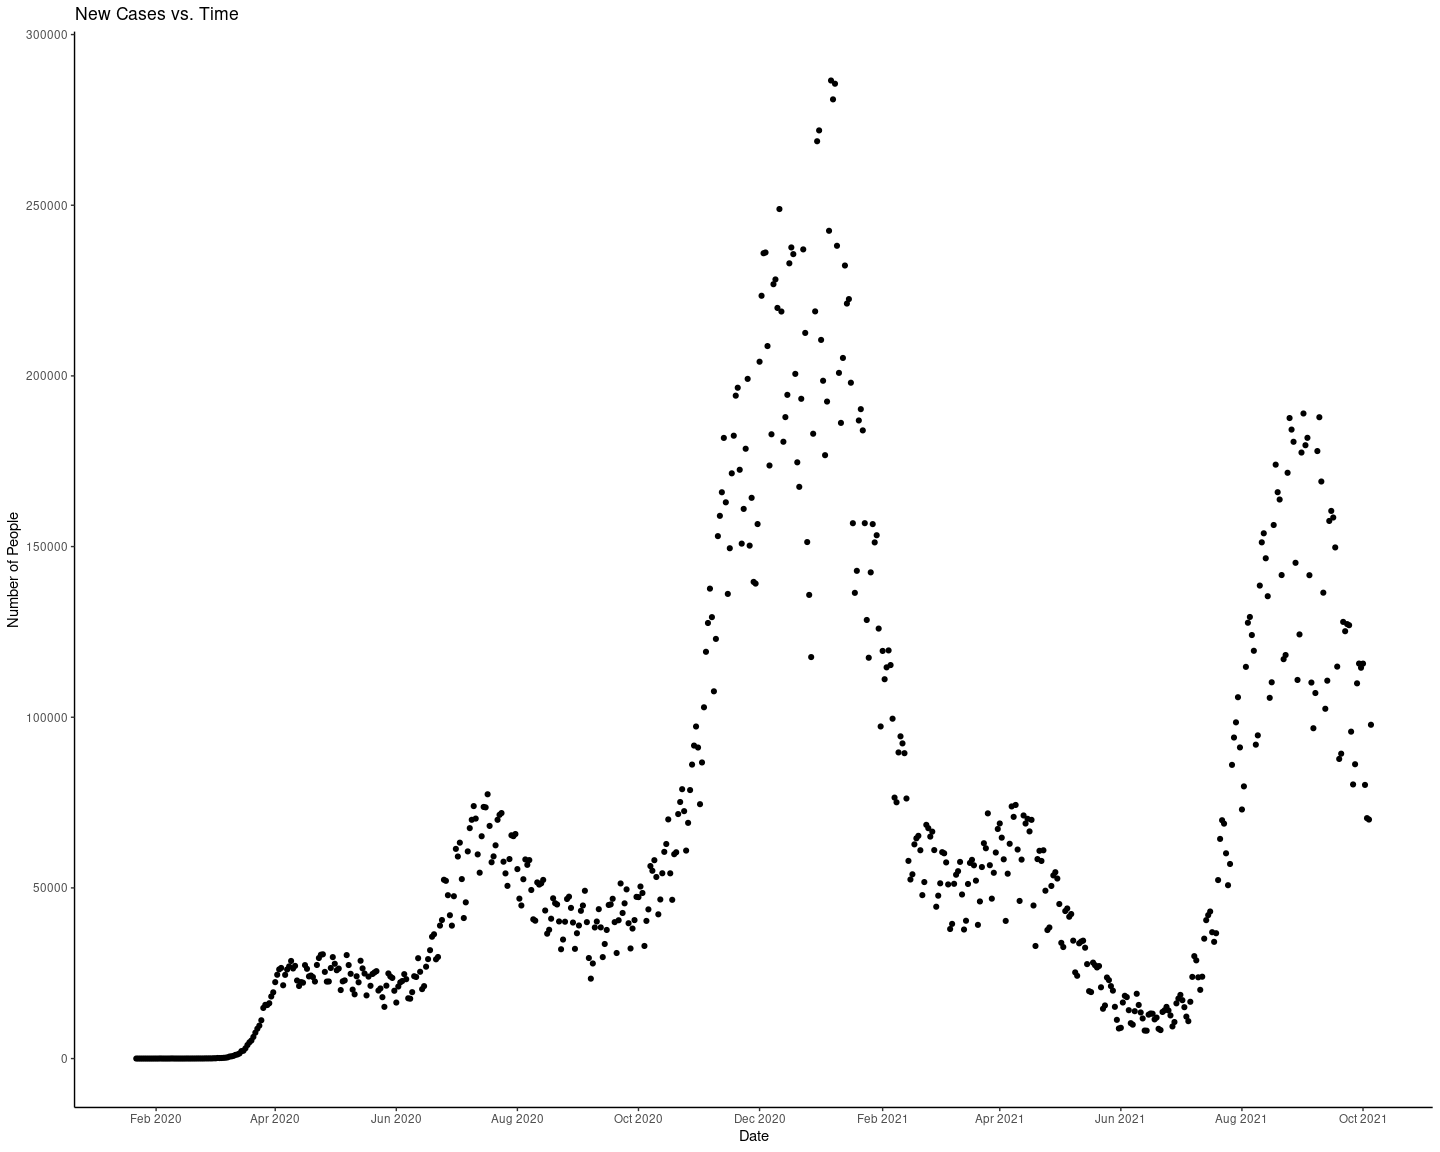
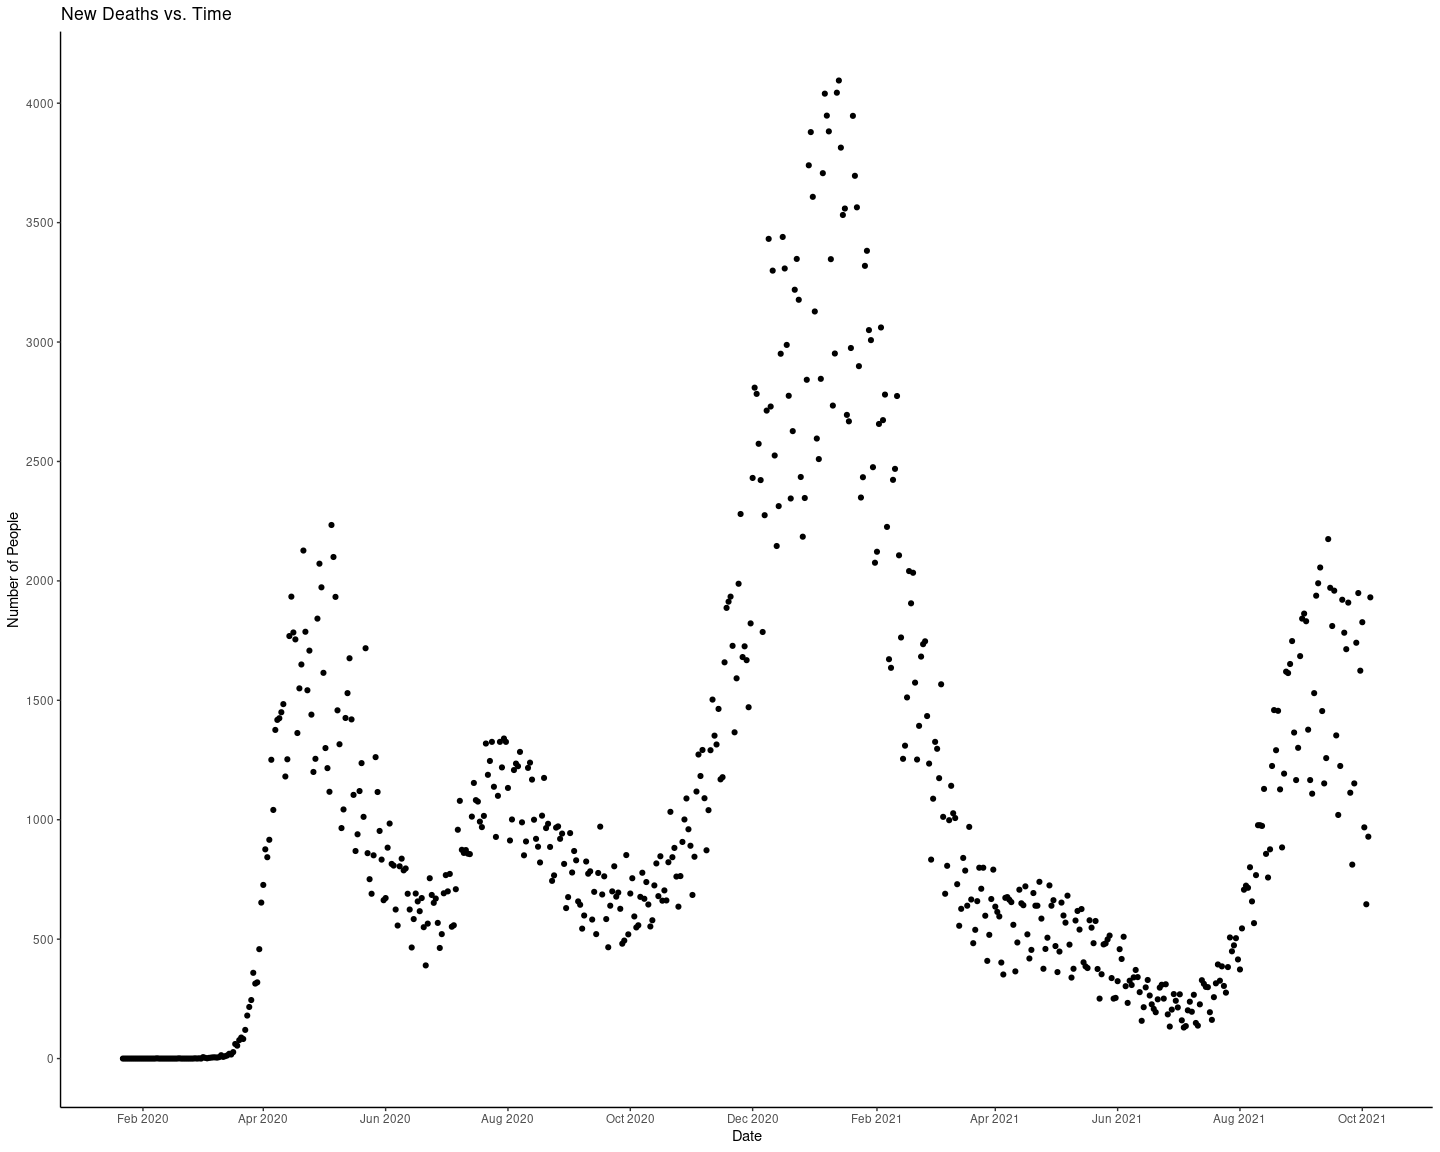
Add deaths vs time plot to scratchwork file

diff --git a/Scratchwork.md b/Scratchwork.md
@@ -236,7 +236,8 @@ new_US_deaths_cases <- US_deaths_cases %>%
   summarise(total_new_cases = sum(new_case),
             total_new_deaths = sum(new_death)) 
 
-new_US_deaths_cases$submission_date = as.Date(new_US_deaths_cases$submission_date, format="%m/%d/%Y")
+new_US_deaths_cases$submission_date = as.Date(new_US_deaths_cases$submission_date,
+                                              format="%m/%d/%Y")
 
 new_US_deaths_cases
 ```
@@ -257,16 +258,28 @@ new_US_deaths_cases
     ## # … with 613 more rows
 
 ``` r
-#new_US_deaths_cases <- new_US_deaths_cases[order(as.Date(new_US_deaths_cases$submission_date, format="%m/%d/%Y")),]
-
-#new_US_deaths_cases
-```
-
-``` r
 new_US_deaths_cases %>%
   ggplot() +
   geom_point(aes(x = submission_date, y = total_new_cases)) +
   labs(title = "New Cases vs. Time",
+       x = "Date",
+       y = "Number of People") +
+  theme_bw() +
+  theme(panel.border = element_blank(), 
+        panel.grid.major = element_blank(),
+        panel.grid.minor = element_blank(), 
+        axis.line = element_line(colour = "black")) +
+  scale_x_date(date_breaks = "2 month", date_labels =  "%b %Y") +
+  scale_y_continuous(breaks = scales::pretty_breaks(n = 10))
+```
+
+![](Scratchwork_files/figure-gfm/unnamed-chunk-2-1.png)<!-- -->
+
+``` r
+new_US_deaths_cases %>%
+  ggplot() +
+  geom_point(aes(x = submission_date, y = total_new_deaths)) +
+  labs(title = "New Deaths vs. Time",
        x = "Date",
        y = "Number of People") +
   theme_bw() +
